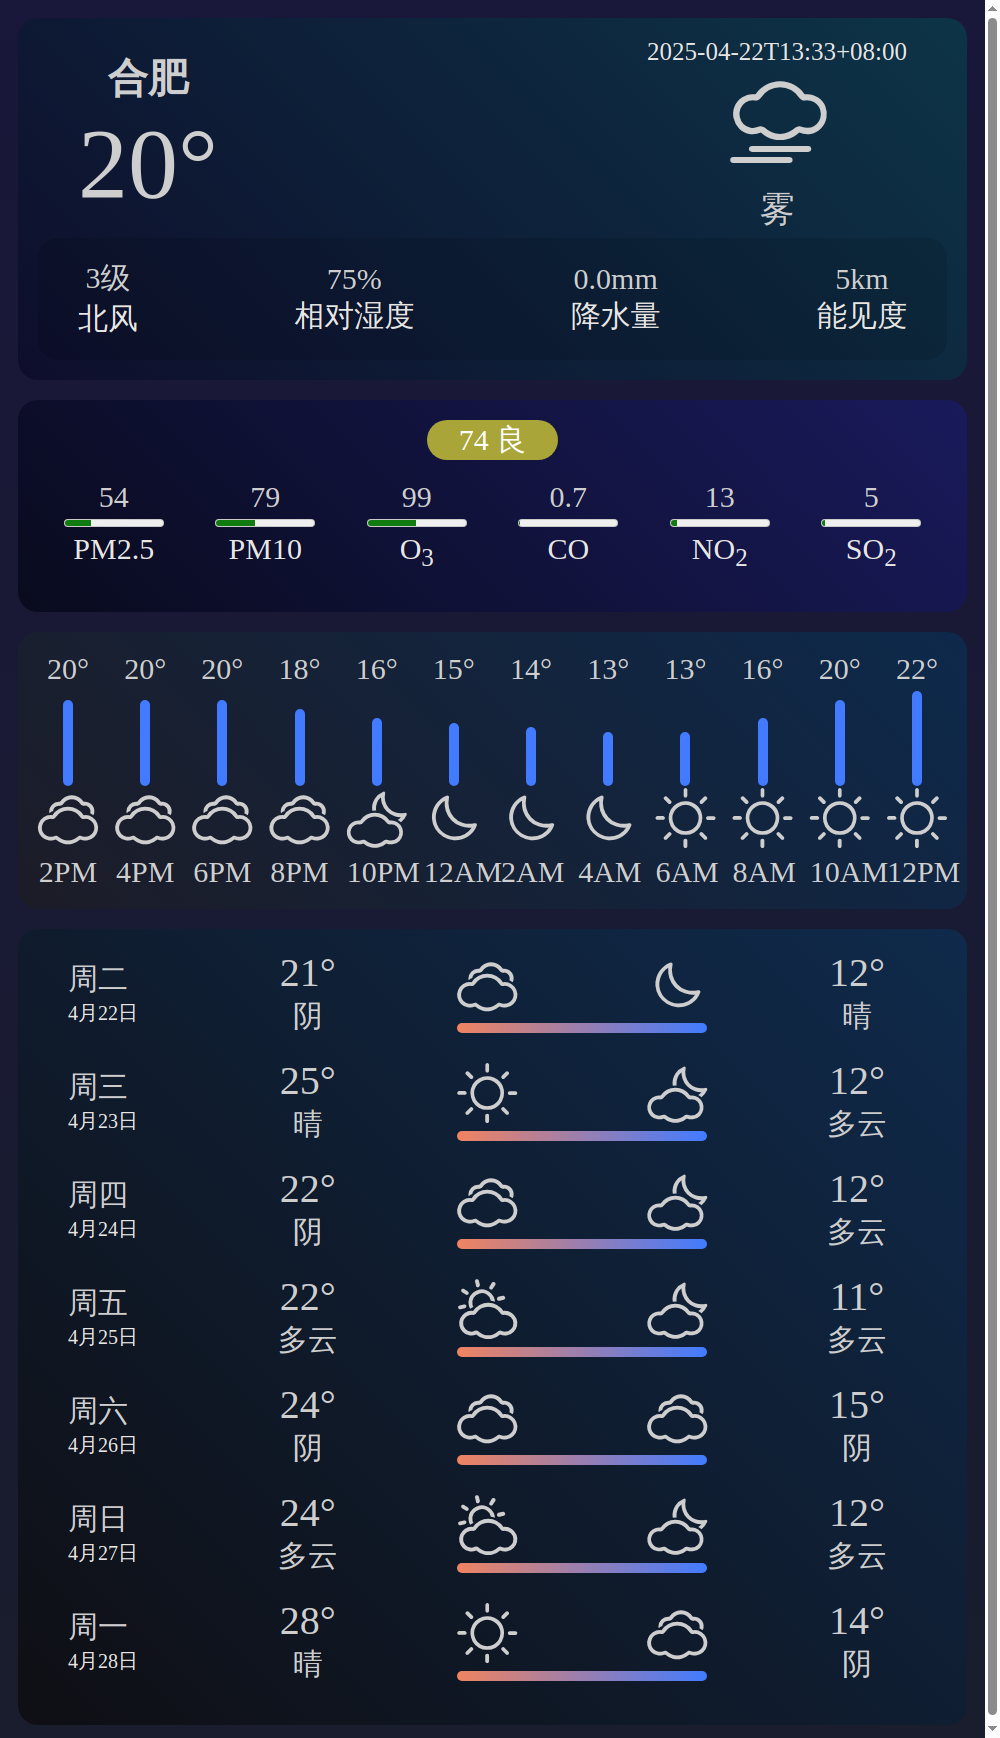
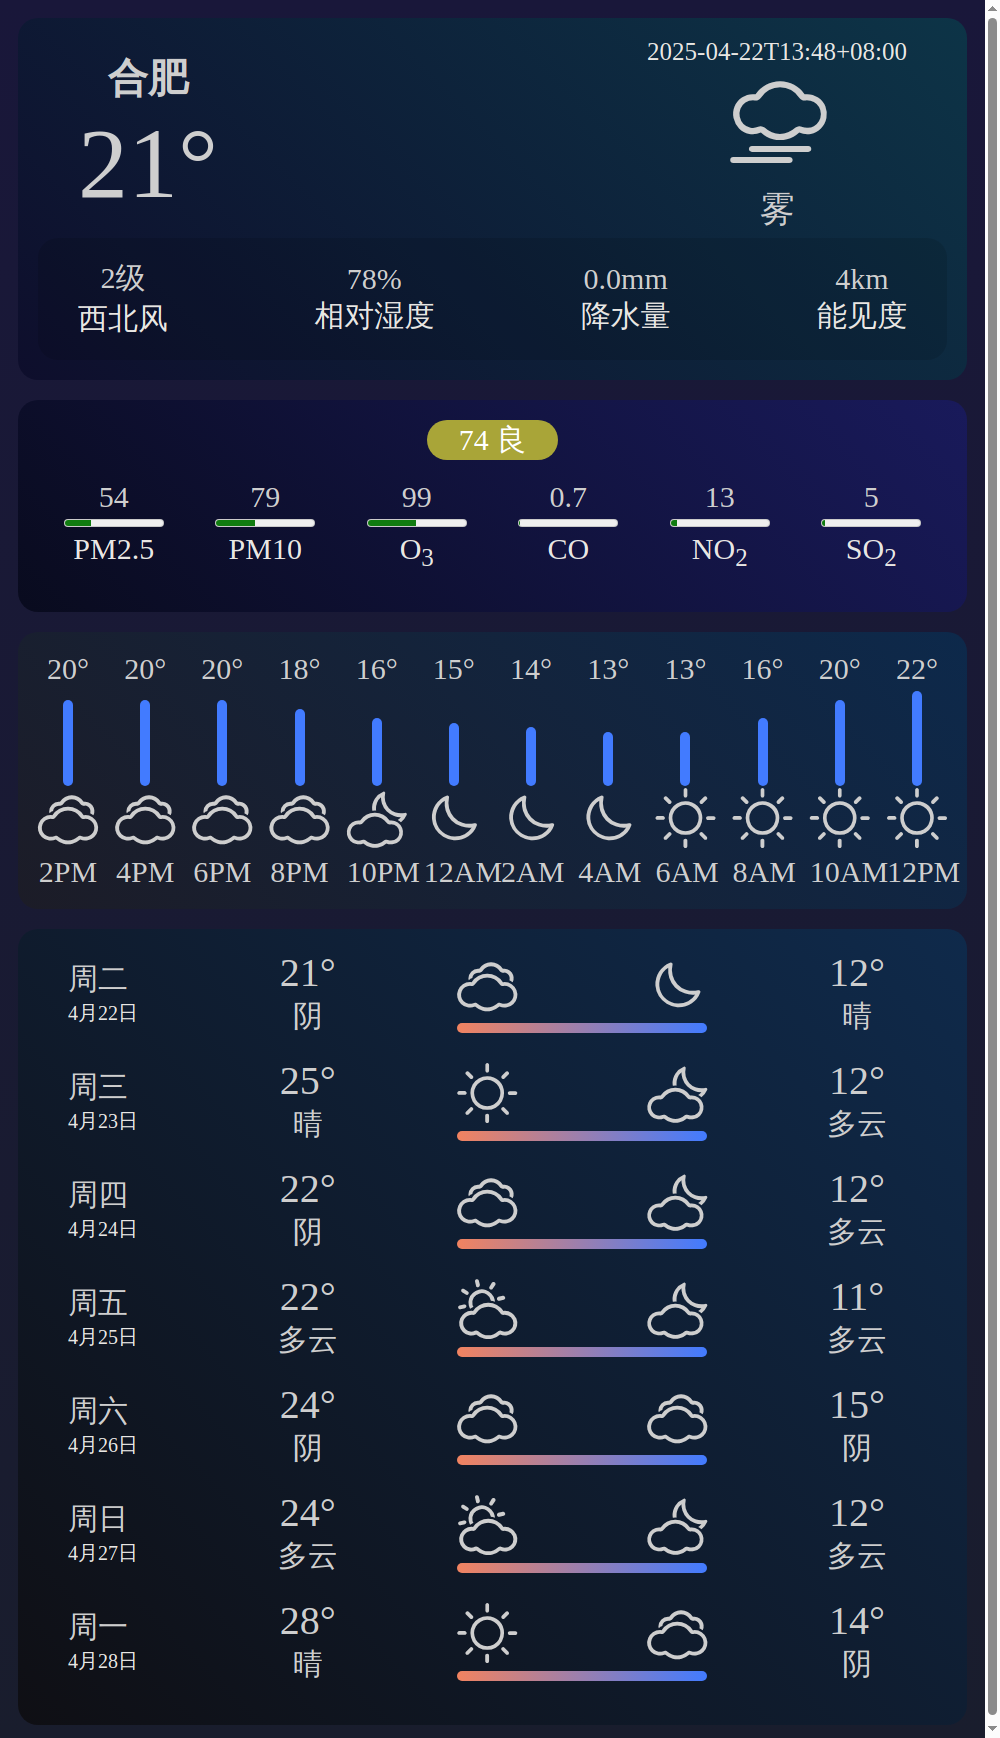
Deploying to gh-pages from @ windshadow233/heweather@2dcbbbf32a782260a7fc8b990c7c1211ab7e08a4 🚀

diff --git a/index.html b/index.html
@@ -11,7 +11,9 @@ window.onload = function () {
 };
 function color() {
     var date = new Date();
-    var current_hour = date.getHours();
+    var offsetMinutes = date.getTimezoneOffset();
+    var offsetToBeijing = offsetMinutes / 60 + 8;
+    var current_hour = (date.getHours() - offsetToBeijing + 24) % 24;
 
     if (!(current_hour >= 6 && current_hour < 18)) {
         document.body.style.backgroundImage = "linear-gradient(rgb(25 23 58), rgb(25 29 45))";
@@ -35,21 +37,21 @@ function color() {
       <div class="today-top">
         <div class="text-center">
           <h1 class="city">合肥</h1>
-          <p class="realtime-tem">20°</p>
+          <p class="realtime-tem">21°</p>
         </div>
         <div class="text-center">
-          <p class="obs-time">2025-04-22T13:33+08:00</p>
+          <p class="obs-time">2025-04-22T13:48+08:00</p>
           <em class="qi-501"></em>
           <p class="realtime-text">雾</p>
         </div>
       </div>
       <div class="today-button">
         <div>
-          <p>3级</p>
-          <p class="des">北风</p>
+          <p>2级</p>
+          <p class="des">西北风</p>
         </div>
         <div>
-          <p>75%</p>
+          <p>78%</p>
           <p class="des">相对湿度</p>
         </div>
         <div>
@@ -57,7 +59,7 @@ function color() {
           <p class="des">降水量</p>
         </div>
         <div>
-          <p>5km</p>
+          <p>4km</p>
           <p class="des">能见度</p>
         </div>
       </div>
